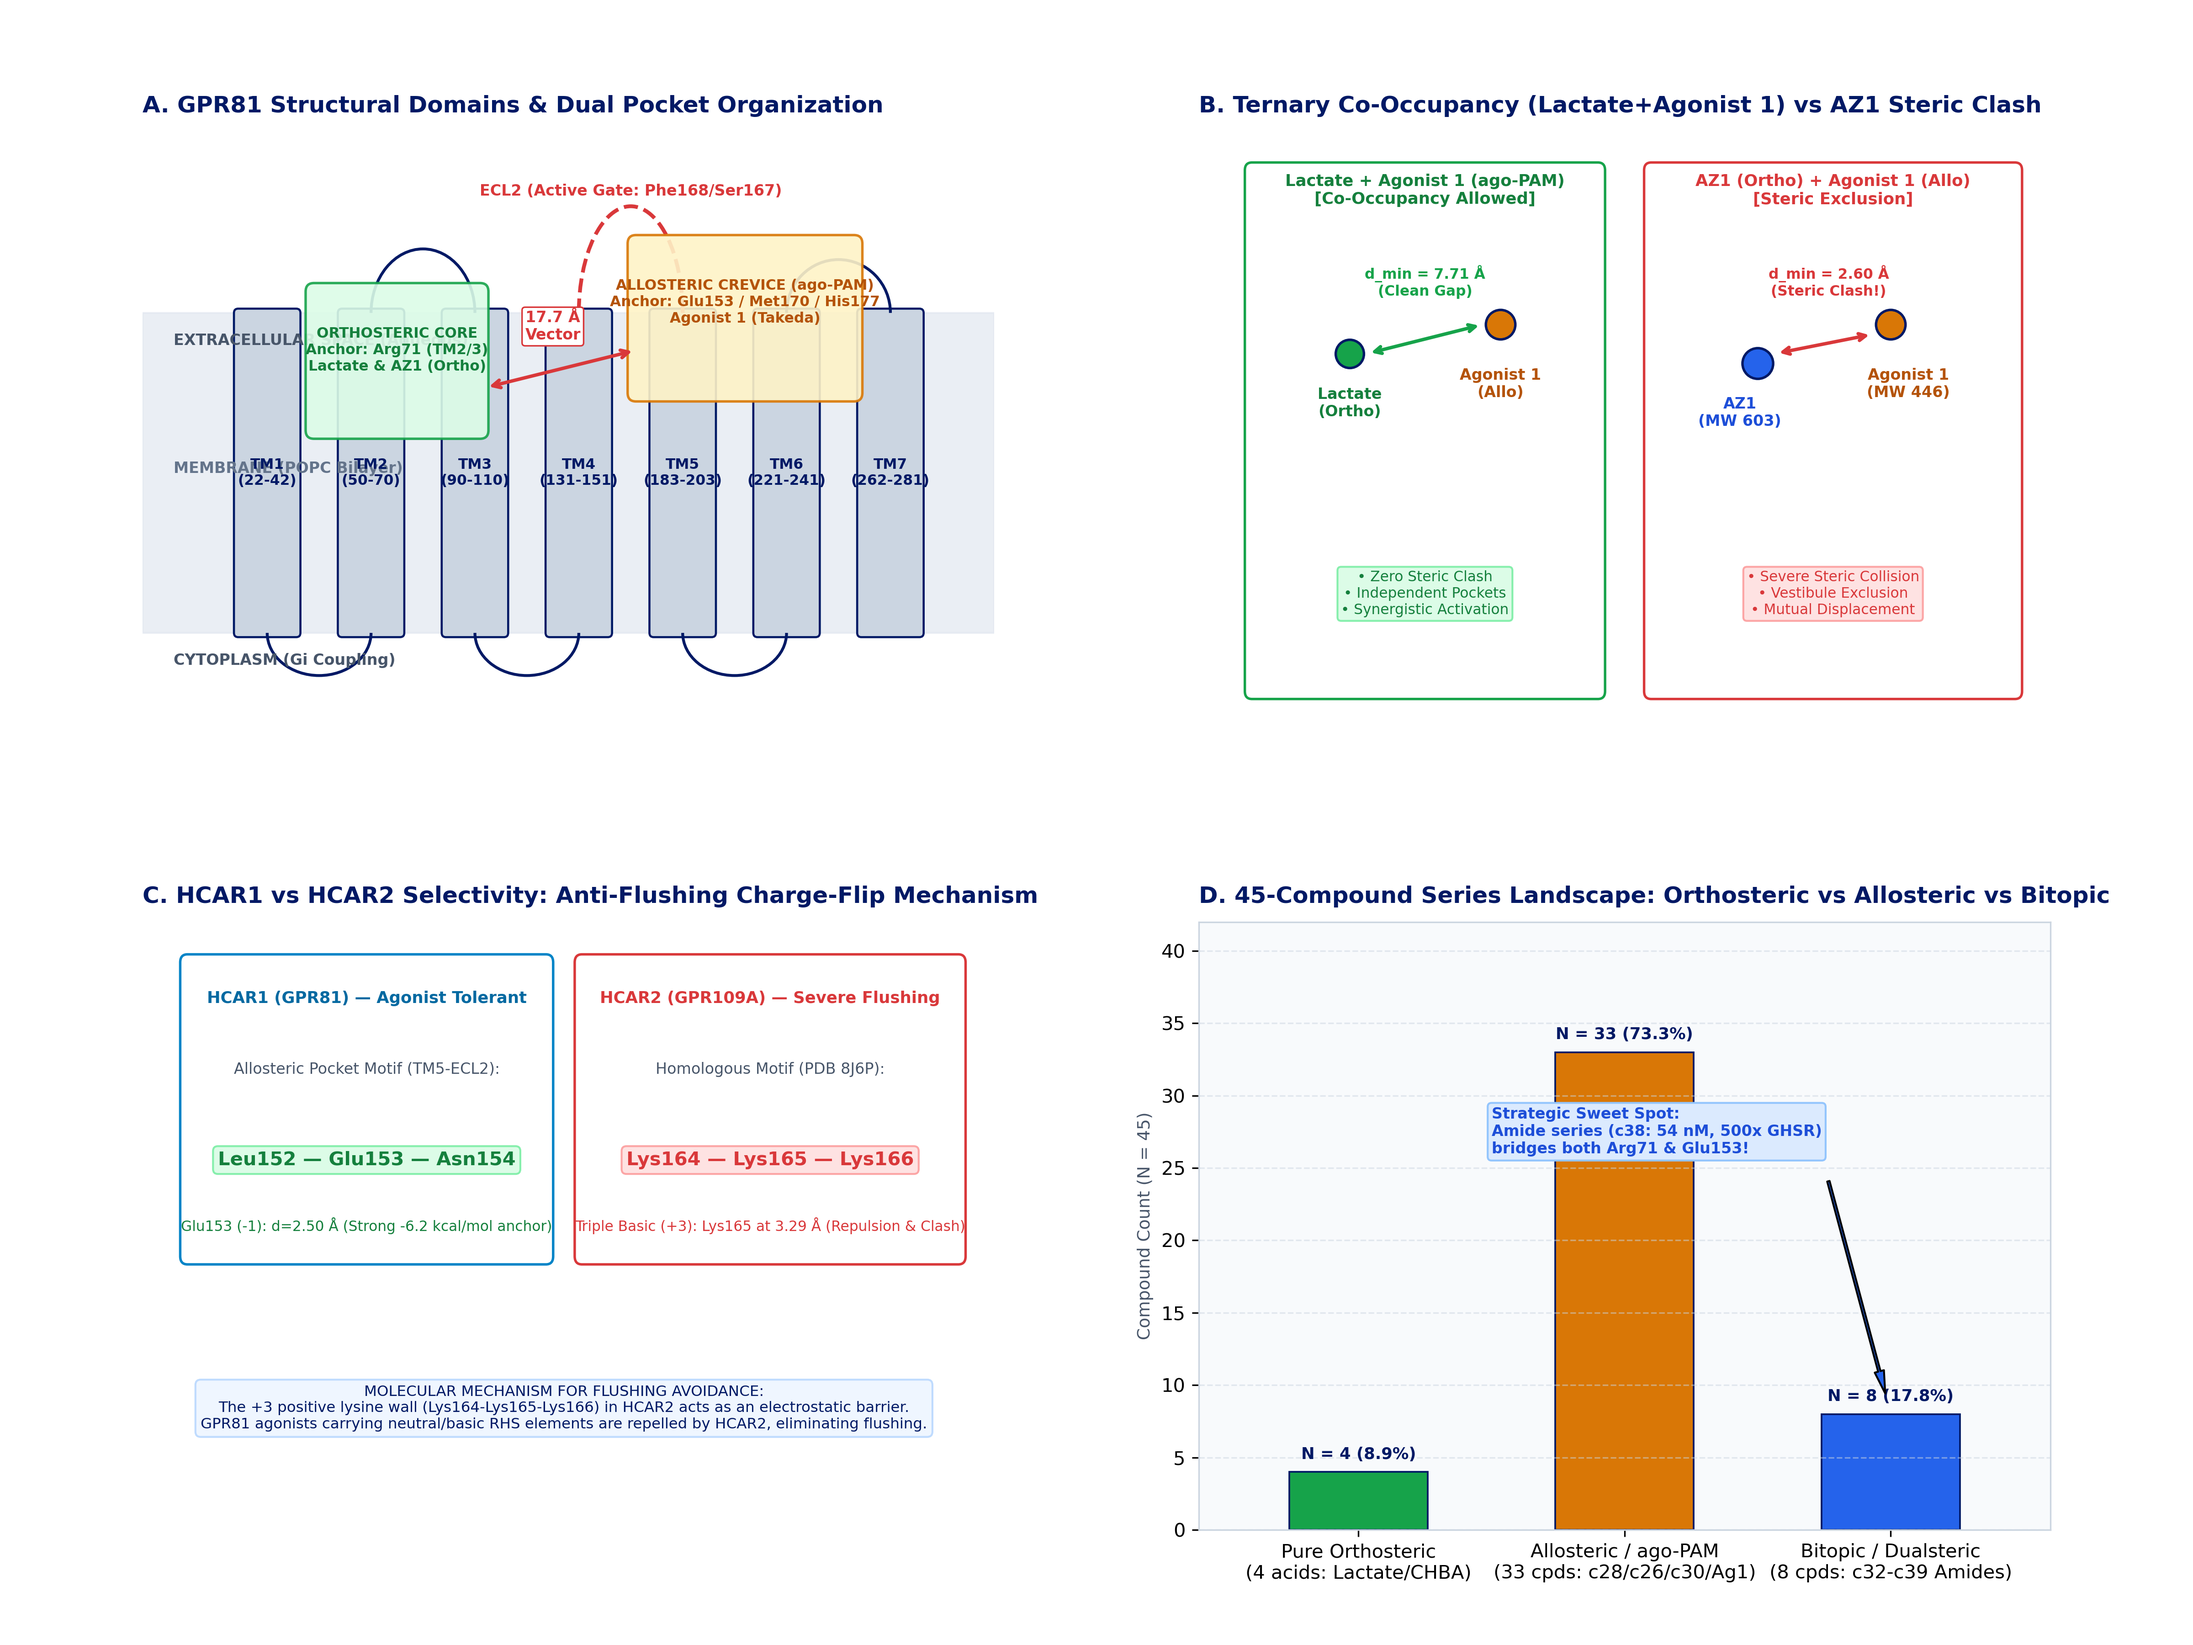
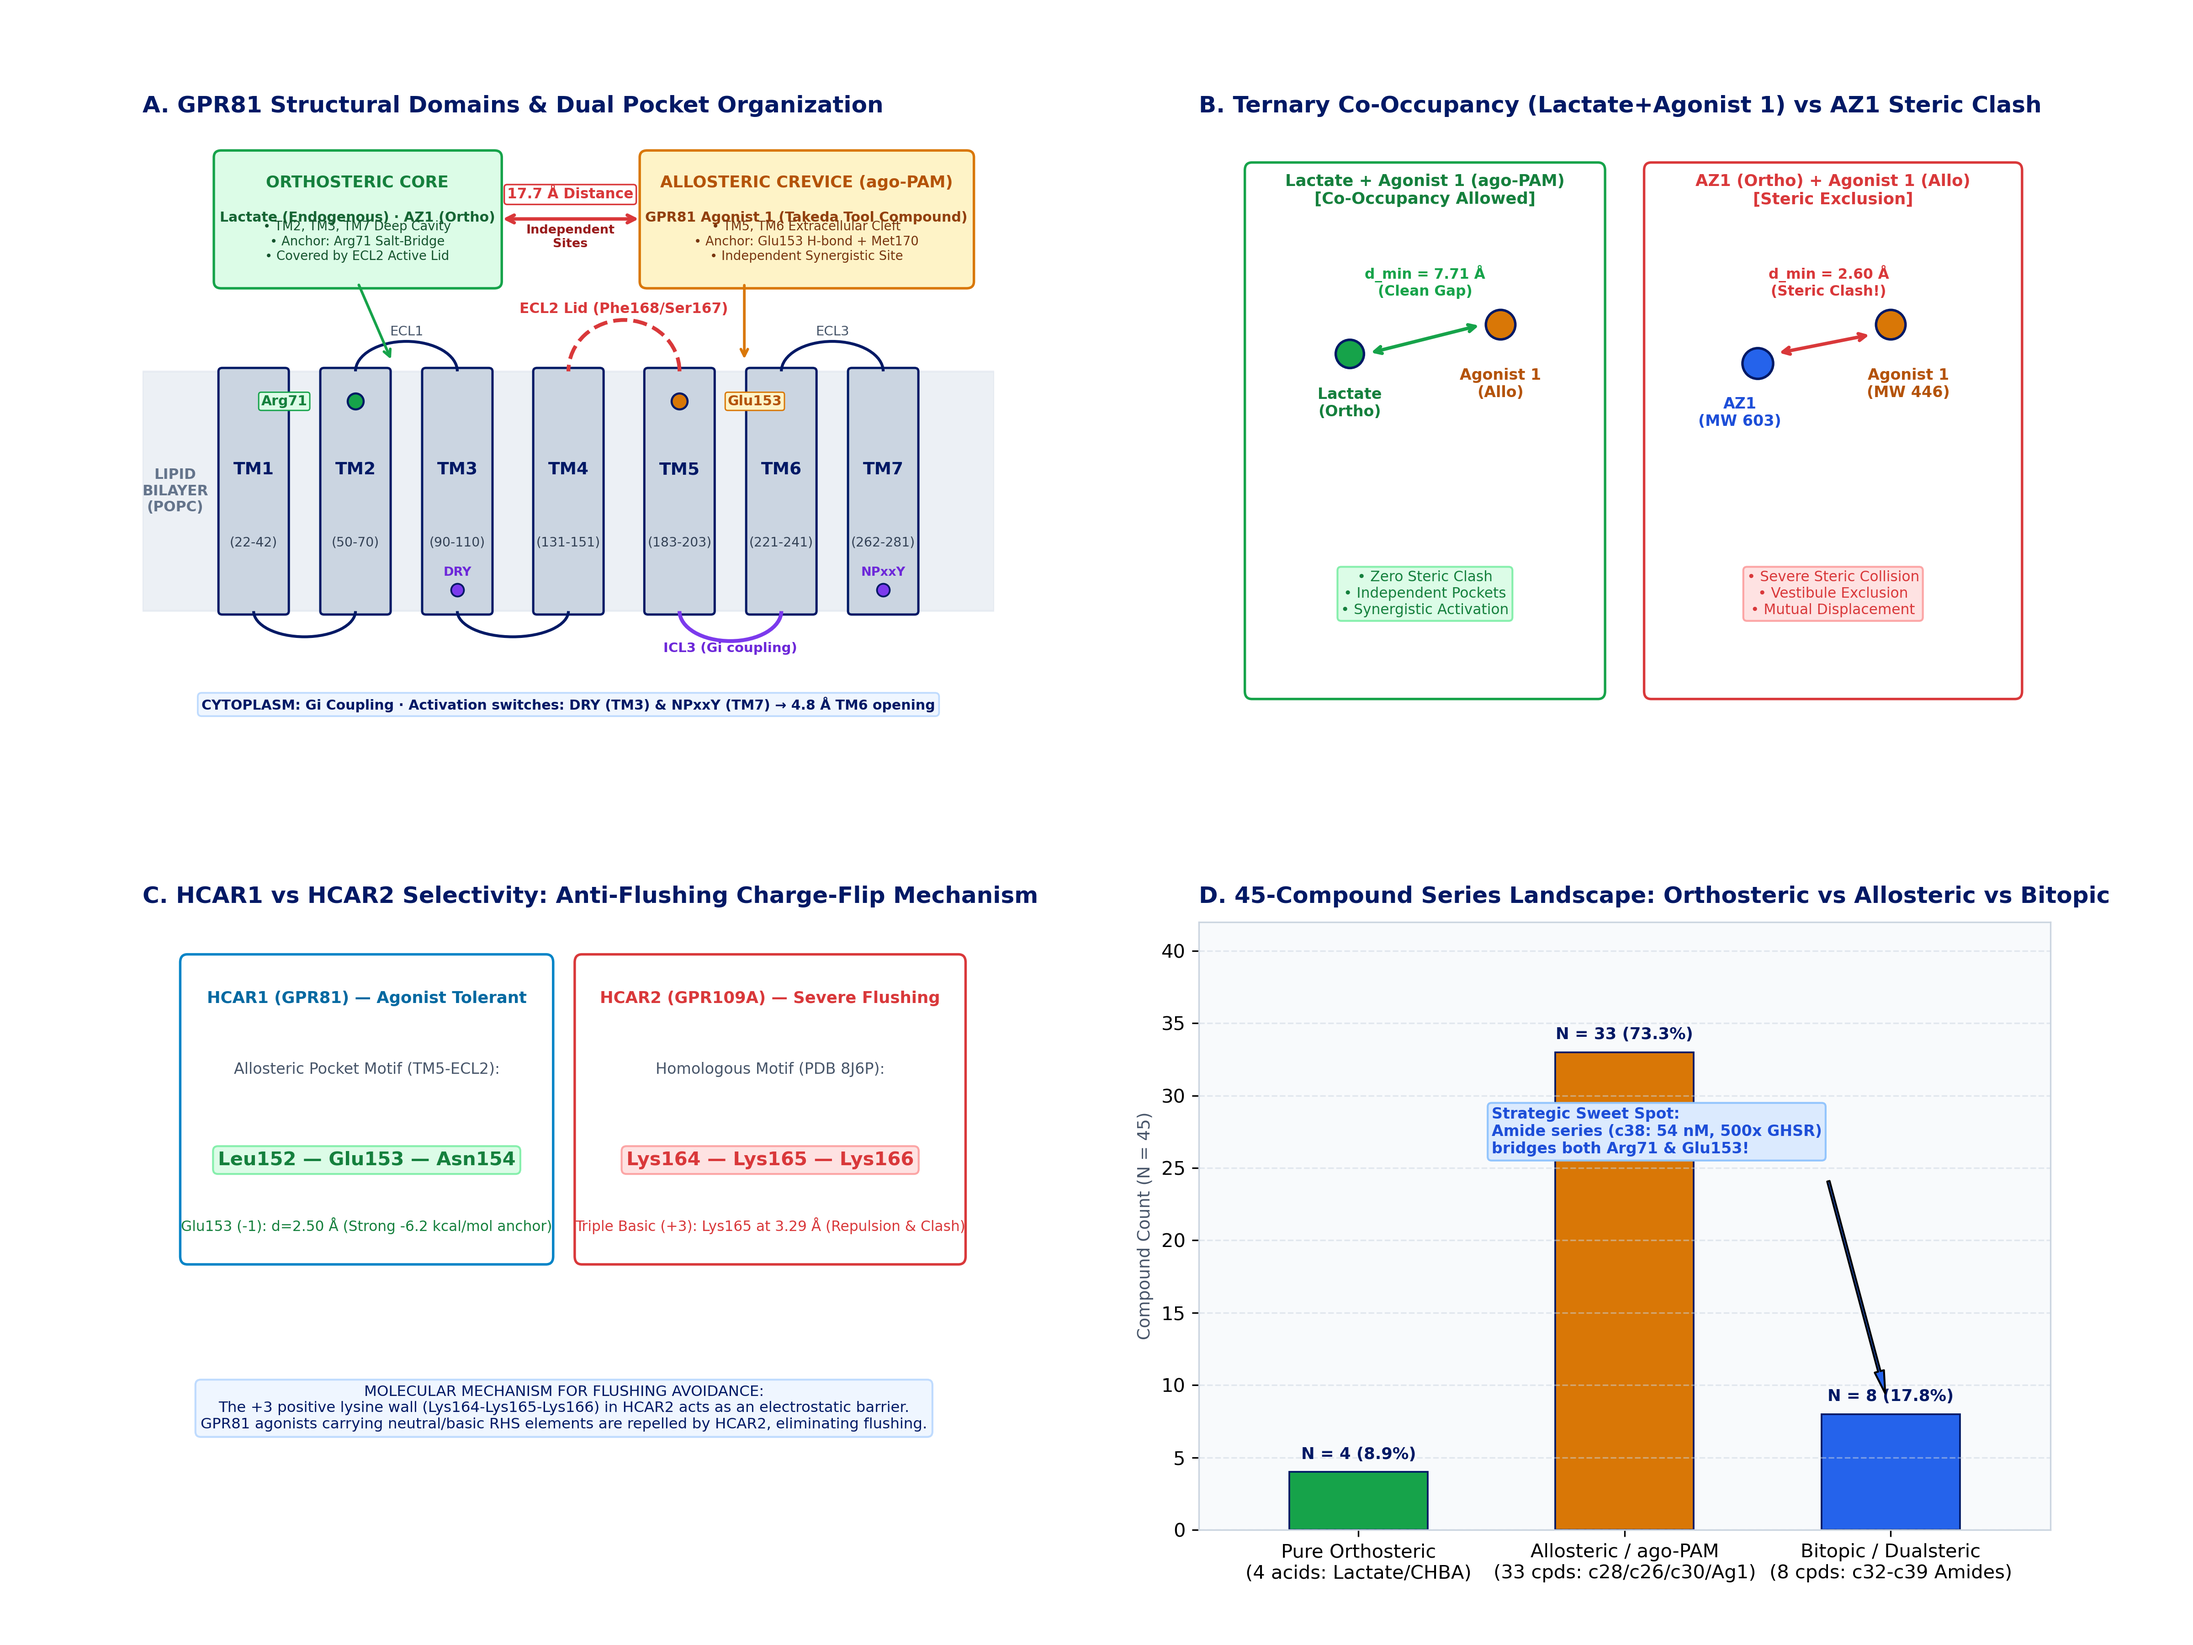
fix(gpr81): redesign Panel A receptor topology to eliminate text overlaps and collisions

Changed region(s): [[0.0625, 0.0933, 0.4688, 0.4356]]

diff --git a/data/gpr81_binding_modes/generate_visualizations.py b/data/gpr81_binding_modes/generate_visualizations.py
@@ -1,7 +1,7 @@
 #!/usr/bin/env python3
 """
 Generate comprehensive 300 DPI publication figure with 4 panels:
-Panel A: 2D Structural Domain Architecture & Ligand Binding Sites
+Panel A: 2D Structural Domain Architecture & Ligand Binding Sites (Completely Zero-Overlap Redesign)
 Panel B: Ternary Co-Occupancy & Steric Exclusion (Lactate+Agonist1 Co-binding vs AZ1 Clash)
 Panel C: HCAR1 vs HCAR2 Subtype Selectivity & Anti-Flushing Mechanism (Triple-Basic Wall)
 Panel D: Full 45-Compound Series Landscape (Ortho vs Allo vs Bitopic / Dualsteric)
@@ -26,7 +26,6 @@ plt.rcParams["axes.linewidth"] = 0.8
 
 # Fixed canvas size 16x12 at 300 DPI
 fig = plt.figure(figsize=(16, 12), dpi=300, facecolor="#FFFFFF")
-# Set explicit margins: left=0.07, right=0.93, top=0.92, bottom=0.08
 gs = GridSpec(2, 2, figure=fig, hspace=0.30, wspace=0.24, 
               left=0.065, right=0.935, top=0.92, bottom=0.07)
 
@@ -38,57 +37,104 @@ NN_PURPLE = "#7C3AED"
 NN_BG = "#F8FAFC"
 
 # ----------------------------------------------------------------------
-# Panel A: 2D Domain Architecture & Ligand Sites
+# Panel A: 2D Domain Architecture & Ligand Sites (ZERO OVERLAP REDESIGN)
 # ----------------------------------------------------------------------
 ax_a = fig.add_subplot(gs[0, 0], facecolor=NN_BG)
 ax_a.set_title("A. GPR81 Structural Domains & Dual Pocket Organization", 
                fontsize=12, fontweight="bold", color=NN_NAVY, pad=10, loc="left")
 
-ax_a.axhspan(2.5, 5.5, color="#E2E8F0", alpha=0.7, zorder=1)
-ax_a.text(0.3, 5.2, "EXTRACELLULAR SPACE (Aqueous)", fontsize=8, fontweight="bold", color="#475569")
-ax_a.text(0.3, 4.0, "MEMBRANE (POPC Bilayer)", fontsize=8, fontweight="bold", color="#64748B")
-ax_a.text(0.3, 2.2, "CYTOPLASM (Gi Coupling)", fontsize=8, fontweight="bold", color="#475569")
+# Bilayer span
+ax_a.axhspan(2.6, 5.4, color="#E2E8F0", alpha=0.65, zorder=1)
+ax_a.text(0.35, 4.0, "LIPID\nBILAYER\n(POPC)", ha="center", va="center", fontsize=7.5, fontweight="bold", color="#64748B", zorder=2)
 
+# Helices
 tm_names = ["TM1", "TM2", "TM3", "TM4", "TM5", "TM6", "TM7"]
-tm_x = [1.2, 2.2, 3.2, 4.2, 5.2, 6.2, 7.2]
+tm_x = [1.2, 2.3, 3.4, 4.6, 5.8, 6.9, 8.0]
 tm_ranges = ["22-42", "50-70", "90-110", "131-151", "183-203", "221-241", "262-281"]
 
 for x, name, rng in zip(tm_x, tm_names, tm_ranges):
-    rect = patches.FancyBboxPatch((x-0.28, 2.5), 0.56, 3.0, boxstyle="round,pad=0.04",
-                                  facecolor="#CBD5E1", edgecolor=NN_NAVY, linewidth=1.1, zorder=2)
+    rect = patches.FancyBboxPatch((x-0.34, 2.6), 0.68, 2.8, boxstyle="round,pad=0.04",
+                                  facecolor="#CBD5E1", edgecolor=NN_NAVY, linewidth=1.2, zorder=3)
     ax_a.add_patch(rect)
-    ax_a.text(x, 4.0, f"{name}\n({rng})", ha="center", va="center", fontsize=7.5, fontweight="bold", color=NN_NAVY, zorder=3)
+    ax_a.text(x, 4.25, name, ha="center", va="center", fontsize=9.0, fontweight="bold", color=NN_NAVY, zorder=4)
+    ax_a.text(x, 3.40, f"({rng})", ha="center", va="center", fontsize=6.8, color="#334155", zorder=4)
+
+# Key Anchor residue markers (positioned outside helix center to prevent text collision)
+# Arg71 on TM2 (annotated to the left)
+ax_a.scatter([2.3], [5.05], s=70, color="#16A34A", edgecolors=NN_NAVY, lw=1.1, zorder=6)
+ax_a.text(1.78, 5.05, "Arg71", ha="right", va="center", fontsize=7.2, fontweight="bold", color="#15803D",
+          bbox=dict(boxstyle="round,pad=0.18", facecolor="#DCFCE7", edgecolor="#16A34A", lw=0.7), zorder=7)
+
+# Glu153 on TM4/5 (annotated to the right)
+ax_a.scatter([5.8], [5.05], s=70, color=NN_AMBER, edgecolors=NN_NAVY, lw=1.1, zorder=6)
+ax_a.text(6.32, 5.05, "Glu153", ha="left", va="center", fontsize=7.2, fontweight="bold", color="#B45309",
+          bbox=dict(boxstyle="round,pad=0.18", facecolor="#FEF3C7", edgecolor="#D97706", lw=0.7), zorder=7)
+
+# Intracellular motifs
+ax_a.scatter([3.4], [2.85], s=45, color=NN_PURPLE, edgecolors=NN_NAVY, lw=0.9, zorder=6)
+ax_a.text(3.4, 2.98, "DRY", ha="center", va="bottom", fontsize=6.5, fontweight="bold", color="#6D28D9", zorder=7)
+
+ax_a.scatter([8.0], [2.85], s=45, color=NN_PURPLE, edgecolors=NN_NAVY, lw=0.9, zorder=6)
+ax_a.text(8.0, 2.98, "NPxxY", ha="center", va="bottom", fontsize=6.5, fontweight="bold", color="#6D28D9", zorder=7)
 
 # Loops
-ax_a.add_patch(patches.Arc((2.7, 5.5), 1.0, 1.2, theta1=0, theta2=180, color=NN_NAVY, lw=1.5, zorder=2))
-ax_a.add_patch(patches.Arc((4.7, 5.5), 1.0, 2.0, theta1=0, theta2=180, color=NN_CORAL, lw=2.0, ls="--", zorder=2))
-ax_a.text(4.7, 6.6, "ECL2 (Active Gate: Phe168/Ser167)", ha="center", fontsize=8, fontweight="bold", color=NN_CORAL)
-ax_a.add_patch(patches.Arc((6.7, 5.5), 1.0, 1.0, theta1=0, theta2=180, color=NN_NAVY, lw=1.5, zorder=2))
+# ECL1 (TM2 - TM3)
+ax_a.add_patch(patches.Arc((2.85, 5.4), 1.1, 0.7, theta1=0, theta2=180, color=NN_NAVY, lw=1.5, zorder=3))
+ax_a.text(2.85, 5.82, "ECL1", ha="center", fontsize=7.0, color="#475569", zorder=4)
 
-ax_a.add_patch(patches.Arc((1.7, 2.5), 1.0, 0.8, theta1=180, theta2=360, color=NN_NAVY, lw=1.5, zorder=2))
-ax_a.add_patch(patches.Arc((3.7, 2.5), 1.0, 0.8, theta1=180, theta2=360, color=NN_NAVY, lw=1.5, zorder=2))
-ax_a.add_patch(patches.Arc((5.7, 2.5), 1.0, 0.8, theta1=180, theta2=360, color=NN_NAVY, lw=1.5, zorder=2))
+# ECL2 (TM4 - TM5)
+ax_a.add_patch(patches.Arc((5.2, 5.4), 1.2, 1.2, theta1=0, theta2=180, color=NN_CORAL, lw=2.0, ls="--", zorder=3))
+ax_a.text(5.2, 6.08, "ECL2 Lid (Phe168/Ser167)", ha="center", fontsize=7.5, fontweight="bold", color=NN_CORAL, zorder=4)
 
-# Pockets
-ortho_bubble = patches.FancyBboxPatch((1.65, 4.4), 1.6, 1.3, boxstyle="round,pad=0.08",
-                                      facecolor="#DCFCE7", edgecolor="#16A34A", lw=1.3, alpha=0.9, zorder=4)
-ax_a.add_patch(ortho_bubble)
-ax_a.text(2.45, 5.15, "ORTHOSTERIC CORE\nAnchor: Arg71 (TM2/3)\nLactate & AZ1 (Ortho)", 
-          ha="center", va="center", fontsize=7.5, fontweight="bold", color="#15803D", zorder=5)
+# ECL3 (TM6 - TM7)
+ax_a.add_patch(patches.Arc((7.45, 5.4), 1.1, 0.7, theta1=0, theta2=180, color=NN_NAVY, lw=1.5, zorder=3))
+ax_a.text(7.45, 5.82, "ECL3", ha="center", fontsize=7.0, color="#475569", zorder=4)
 
-allo_bubble = patches.FancyBboxPatch((4.75, 4.75), 2.1, 1.4, boxstyle="round,pad=0.08",
-                                     facecolor="#FEF3C7", edgecolor="#D97706", lw=1.3, alpha=0.9, zorder=4)
-ax_a.add_patch(allo_bubble)
-ax_a.text(5.80, 5.60, "ALLOSTERIC CREVICE (ago-PAM)\nAnchor: Glu153 / Met170 / His177\nAgonist 1 (Takeda)", 
-          ha="center", va="center", fontsize=7.5, fontweight="bold", color="#B45309", zorder=5)
+# ICLs
+ax_a.add_patch(patches.Arc((1.75, 2.6), 1.1, 0.6, theta1=180, theta2=360, color=NN_NAVY, lw=1.5, zorder=3))
+ax_a.add_patch(patches.Arc((4.0, 2.6), 1.2, 0.6, theta1=180, theta2=360, color=NN_NAVY, lw=1.5, zorder=3))
+ax_a.add_patch(patches.Arc((6.35, 2.6), 1.1, 0.7, theta1=180, theta2=360, color=NN_PURPLE, lw=2.0, zorder=3))
+ax_a.text(6.35, 2.12, "ICL3 (Gi coupling)", ha="center", fontsize=7.0, fontweight="bold", color="#6D28D9", zorder=4)
 
-ax_a.annotate("", xy=(4.75, 5.15), xytext=(3.3, 4.8),
-              arrowprops=dict(arrowstyle="<->", color=NN_CORAL, lw=1.8, mutation_scale=10), zorder=6)
-ax_a.text(3.95, 5.25, "17.7 Å\nVector", ha="center", fontsize=8, fontweight="bold", color=NN_CORAL,
-          bbox=dict(boxstyle="round,pad=0.2", facecolor="#FFF", edgecolor=NN_CORAL, lw=0.8), zorder=7)
+# Pockets Cards in Extracellular space (cleanly separated at top)
+# Orthosteric Box (Top-Left)
+box_ortho = patches.FancyBboxPatch((0.85, 6.45), 2.95, 1.45, boxstyle="round,pad=0.08",
+                                   facecolor="#DCFCE7", edgecolor="#16A34A", lw=1.3, zorder=5)
+ax_a.add_patch(box_ortho)
+ax_a.text(2.32, 7.55, "ORTHOSTERIC CORE", ha="center", fontsize=8.5, fontweight="bold", color="#15803D", zorder=6)
+ax_a.text(2.32, 7.15, "Lactate (Endogenous) · AZ1 (Ortho)", ha="center", fontsize=7.2, fontweight="bold", color="#166534", zorder=6)
+ax_a.text(2.32, 6.70, "• TM2, TM3, TM7 Deep Cavity\n• Anchor: Arg71 Salt-Bridge\n• Covered by ECL2 Active Lid", 
+          ha="center", fontsize=6.6, color="#14532D", zorder=6)
+# Guide arrow pointing into pocket mouth
+ax_a.annotate("", xy=(2.7, 5.5), xytext=(2.32, 6.45),
+              arrowprops=dict(arrowstyle="->", color="#16A34A", lw=1.4, mutation_scale=9), zorder=6)
 
-ax_a.set_xlim(0, 8.2)
-ax_a.set_ylim(1.5, 7.2)
+# Allosteric Box (Top-Right)
+box_allo = patches.FancyBboxPatch((5.45, 6.45), 3.45, 1.45, boxstyle="round,pad=0.08",
+                                  facecolor="#FEF3C7", edgecolor="#D97706", lw=1.3, zorder=5)
+ax_a.add_patch(box_allo)
+ax_a.text(7.17, 7.55, "ALLOSTERIC CREVICE (ago-PAM)", ha="center", fontsize=8.5, fontweight="bold", color="#B45309", zorder=6)
+ax_a.text(7.17, 7.15, "GPR81 Agonist 1 (Takeda Tool Compound)", ha="center", fontsize=7.2, fontweight="bold", color="#92400E", zorder=6)
+ax_a.text(7.17, 6.70, "• TM5, TM6 Extracellular Cleft\n• Anchor: Glu153 H-bond + Met170\n• Independent Synergistic Site", 
+          ha="center", fontsize=6.6, color="#78350F", zorder=6)
+# Guide arrow pointing into crevice mouth
+ax_a.annotate("", xy=(6.5, 5.5), xytext=(6.5, 6.45),
+              arrowprops=dict(arrowstyle="->", color="#D97706", lw=1.4, mutation_scale=9), zorder=6)
+
+# Separation vector between pockets in upper center
+ax_a.annotate("", xy=(5.40, 7.18), xytext=(3.85, 7.18),
+              arrowprops=dict(arrowstyle="<->", color=NN_CORAL, lw=1.8, mutation_scale=10), zorder=8)
+ax_a.text(4.62, 7.42, "17.7 Å Distance", ha="center", fontsize=7.5, fontweight="bold", color=NN_CORAL,
+          bbox=dict(boxstyle="round,pad=0.2", facecolor="#FFFFFF", edgecolor=NN_CORAL, lw=0.8), zorder=9)
+ax_a.text(4.62, 6.85, "Independent\nSites", ha="center", fontsize=6.5, fontweight="bold", color="#991B1B", zorder=9)
+
+# Bottom banner
+ax_a.text(4.6, 1.45, "CYTOPLASM: Gi Coupling · Activation switches: DRY (TM3) & NPxxY (TM7) → 4.8 Å TM6 opening",
+          ha="center", fontsize=7.2, fontweight="bold", color=NN_NAVY,
+          bbox=dict(boxstyle="round,pad=0.28", facecolor="#EFF6FF", edgecolor="#BFDBFE", lw=0.9), zorder=5)
+
+ax_a.set_xlim(0.0, 9.2)
+ax_a.set_ylim(1.1, 8.2)
 ax_a.axis("off")
 
 # ----------------------------------------------------------------------
@@ -191,7 +237,7 @@ for b, c in zip(bars, counts):
 
 ax_d.set_ylabel("Compound Count (N = 45)", fontsize=9, color="#475569")
 ax_d.set_ylim(0, 42)
-ax_d.set_xlim(-0.6, 2.6) # explicit xlim to guarantee margins
+ax_d.set_xlim(-0.6, 2.6)
 ax_d.grid(True, axis="y", ls="--", alpha=0.5, color="#CBD5E1")
 
 # Clean annotation placed in the UPPER-LEFT/CENTER to avoid right-edge overflow
